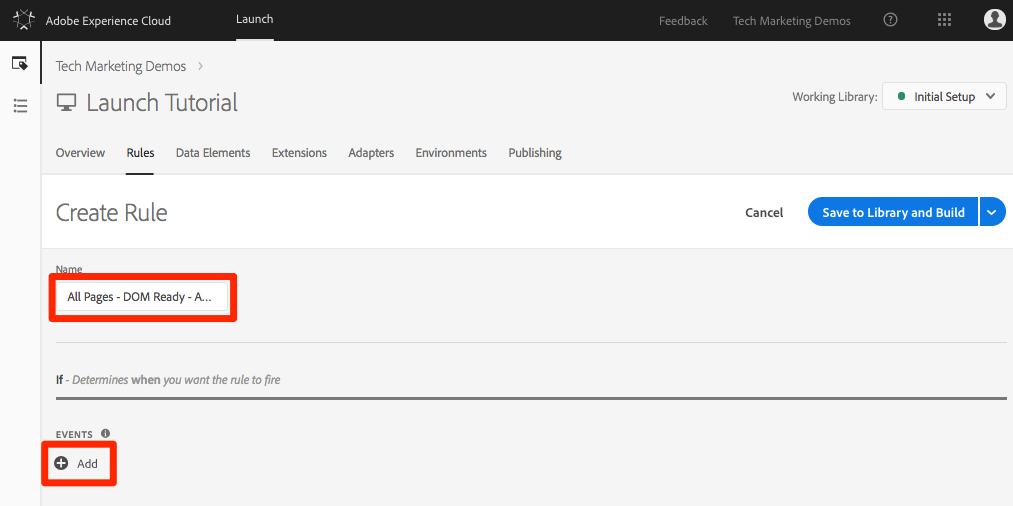
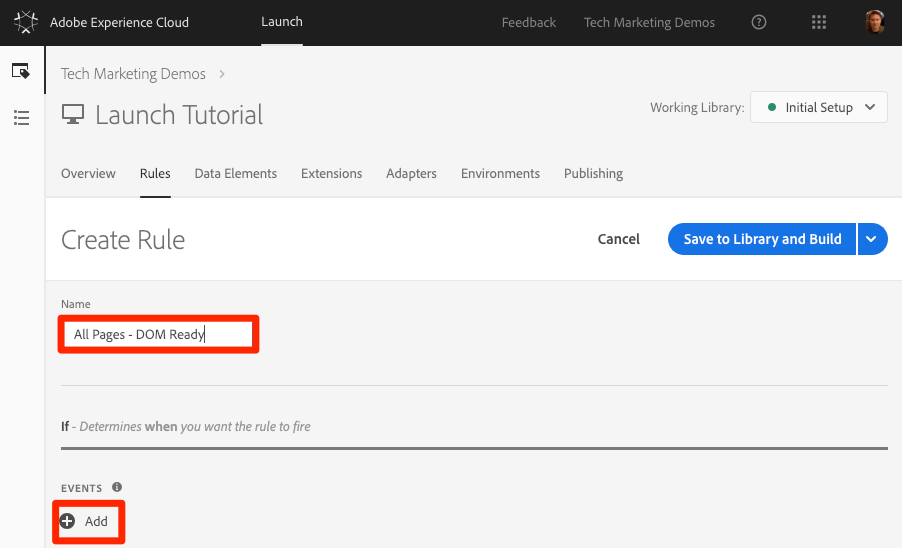
revisions, mostly to Analytics section

diff --git a/help/website-implementation/pages/analytics.md b/help/website-implementation/pages/analytics.md
@@ -8,22 +8,22 @@ solution: Experience Cloud
 
 # Adobe Analytics
 
-In this lesson, we will implement the Adobe Analytics extension, and create rules that will send data data from the page into Adobe Analytics.
+In this lesson, you will implement the Adobe Analytics extension and create rules to send data to Adobe Analytics.
 
 The Adobe Analytics extension supports client-side Analytics implementations using AppMeasurement.js.
 
-There are many things that could be implemented for Analytics in Launch, but we will limit this demo to the implementation of the following items:
+There are many things that could be implemented for Analytics in Launch, but this lesson will be limited to the implementation of the following items:
 
-1. Tracking `pageName` at a global level in the Analytics extension
+1. Setting `pageName` at a global level in the Analytics extension
 1. When Product Detail Pages are viewed, set an `eVar` and an `event`
-1. Tracking a click on navigation links, populating an `eVar`, `prop`, and `event`
-1. Implementing a plug-in to help track campaigns, and keep them from falsely duplicating `click-throughs`
+1. Tracking clicks on navigation links, populating an `eVar`, `prop`, and `event`
+1. Implementing a plug-in to help track marketing campaigns, and keep them from falsely duplicating `click-throughs`
 
 ## Prerequisites
 
 As noted in the Adobe Target section, to complete the lessons in this section, you should have already completed the lessons in [Configure Launch](launch.md) and [Add the ID Service](id-service.md). Implementing Analytics does not depend on having Target implemented, but for the purposes of this tutorial, we will assume that you did follow along and implement Target.
 
-In addition, you will need at least one report suite ID and also your tracking servers to complete this tutorial. If you don't have a test/dev report suite that you can use for this tutorial, please create one. If you are unsure how to do that, see [the documentation](https://marketing.adobe.com/resources/help/en_US/reference/new_report_suite.html). Please also have your tracking code readily available. You can retrieve this from your current implementation, or talk to your Adobe Consultant or Customer Care representative to help you decide on one.
+In addition, you will need at least one report suite ID. If you don't have a test/dev report suite that you can use for this tutorial, please create one. If you are unsure how to do that, see [the documentation](https://marketing.adobe.com/resources/help/en_US/reference/new_report_suite.html). Please also have your tracking server readily available. You can retrieve this from your current implementation, or talk to your Adobe Consultant or Customer Care representative to help you select one.
 
 ## Add the Analytics Extension
 
@@ -33,14 +33,11 @@ In addition, you will need at least one report suite ID and also your tracking s
 
    ![Install the Analytics extension](../assets/images/analytics-catalog-install.png)
 
-
 1. Under `Library Management > Report Suites`, enter the report suite ids you would like to use with each Launch environment (It's OK to use one report suite for all environments in this tutorial, but in real life you would want to use separate report suites, as shown in the image below)
 
    ![Enter the report suite ids](../assets/images/analytics-config-reportSuite.png)
 
-   >![TIP]
-   >
-   >We recommend using the `Manage the library for me option` as the `Library Management` setting as it makes it much easier to keep the core `AppMeasurement.js` code up-to-date.
+   >![TIP] We recommend using the `Manage the library for me option` as the `Library Management` setting as it makes it much easier to keep the core `AppMeasurement.js` code up-to-date.
 
 1. Under `General > Tracking Server`, enter your tracking server, e.g. "`tmd.sc.omtrdc.net`." Enter your SSL Tracking Server if your site supports `https://`
 
@@ -58,9 +55,7 @@ In addition, you will need at least one report suite ID and also your tracking s
 
    ![Configure the Link Tracking section](../assets/images/analytics-config-linkTracking.png)
 
->[!NOTE]
->
->Global variables can be set in the extension configuration or in rule actions. Be aware that when setting variables with the extension configuration, the data layer must be defined before the Launch embed codes.
+>[!NOTE] Global variables can be set in the extension configuration or in rule actions. Be aware that when setting variables with the extension configuration, the data layer must be defined before the Launch embed codes.
 
 ### What is different from DTM
 
@@ -79,16 +74,17 @@ In addition, you will need at least one report suite ID and also your tracking s
 * Custom Code: Option to load before or after the UI settings has been removed
 * Some options have been rearranged to more intuitive locations
 
-## Fire the Analytics Beacon in a Rule
+## Fire the Analytics Beacon
 
-Now you will create a rule to fire the Analytics beacon, which will also set the `Page Name` variable.
->[!NOTE] We have already created an "All Pages - Library Loaded" rule in the Target section of this tutorial, which fires on every page. We *could* use this rule for Analytics as well, but this rule fires at the top of the page, and best practice for Analytics is to fire closer to the bottom of the page, so that we can use data that has been developed on the page as it loads, etc. Therefore, we will be creating a new "all pages" rule to use for Analytics.
+Now you will create a rule to fire the Analytics beacon, which will send the `Page Name` variable set in the extension configuration.
+
+>[!NOTE] You have already created an "All Pages - Library Loaded" rule in the Target section of this tutorial, which is triggered on every page when the Launch library loads. You *could* use this rule for Analytics as well, however this requires all data layer attributes that you would like to pass to Analytics to be defined before the Launch embed codes. To allow more flexibility with the data collection, you will create a new "all pages" rule triggered on DOM Ready to fire the Analytics beacon.
 
 1. Go to the **[!UICONTROL Rules]** section in the top navigation and then and then click **[!UICONTROL Add Rule]**
 
    ![Add Rule](../assets/images/target-addRule.png)
 
-1. Name the rule `All Pages - DOM Ready - Analytics`
+1. Name the rule `All Pages - DOM Ready`
 1. Click **[!UICONTROL Events > Add]** to open the `Event Configuration` screen
 
    ![Name the rule and add the event](../assets/images/analytics-domReady-nameAddAnalyticsEvent.png)
@@ -115,23 +111,27 @@ Now you will create a rule to fire the Analytics beacon, which will also set the
 
   ![Click Save to Library and Build](../assets/images/analytics-saveToLibraryAndBuild.png)
 
-## Validate the Page Load Hit and Page Name Variable
+### Validate the Analytics Beacon
 
-Now that we have created a rule to send an Analytics beacon, we should be able to see the hit in the Experience Cloud Debugger.
+Now that we have created a rule to send an Analytics beacon, we should be able to see the request in the Experience Cloud Debugger.
 
-1. Open (or refresh) your we.retail page in a browser (you should have set a bookmark to it in an early exercise)
-1. Click the debugger icon ![Open the Experience Cloud Debugger](../assets/images/analytics-debuggerIcon.png) to open your **[!UICONTROL Adobe Experience Cloud Debugger]**
+1. Open the [We.Retail site](https://aem.enablementadobe.com/content/we-retail/us/en.html) in your Chrome browser
+1. Click the Debugger icon ![Open the Experience Cloud Debugger](../assets/images/analytics-debuggerIcon.png) to open the **[!UICONTROL Adobe Experience Cloud Debugger]**
 1. Click to the Analytics tab
-1. Expand your Report Suite's hit
-1. Notice the Page Name variable/value
+1. Expand your Report Suite name to show all of the requests made to it
+1. Confirm the Page Name variable and value
 
 ![Validate the page hit](../assets/images/analytics-validatePageHit.png)
 
 >[!NOTE] If the Page Name is not showing up for you, go back through the steps in this page to make sure that you haven't missed anything.
 
-## Setting "Product Details Page" into an `eVar` (and set an `Event`) on Product Details Pages
+## Add Variables with Rules
 
-In our deployment, we are going to focus on Product Detail Pages (PDP), also sometimes called "Product View Pages." When we load a Product Detail Page, we would like to put that value into a "Page Type" `eVar`, as well as set an event. This will allow us to see the following in our analysis:
+When you configured the Analytics Extension, you populated the `pageName` variable in the extension configuration. This is a fine location to populate other Analytics variables such as eVars and props, provided the value you are passing is available on the page before the Launch embed codes.
+
+A more flexible location to set variables&mdash;as well as events&mdash;is in rules using the `Set Variables` action. Using rules allows you to set different Analytics variables and events under different conditions. For example, you could set the `prodView` only on product detail pages and the `purchase` event only on order confirmation pages. This section will teach you how to set variables using rules.
+
+Product Detail Pages (PDP) are important points for data collection on retail sites. Typically, you want your analytics system to register that a product view occurred and which product was viewed. This is helpful in understanding which products are popular with your customers. On a media site, article or video pages could use similar tracking techniques to the ones you will use in this section.  When we load a Product Detail Page, we would like to put that value into a "Page Type" `eVar`, as well as set an event. This will allow us to see the following in our analysis:
 
 1. How many times product detail pages are loaded
 1. How other factors (campaigns, search, etc) affect how many PDP's people load.
@@ -189,21 +189,21 @@ For this functionality, we will create another page load rule, triggered by DOM 
 
 1. Click **[!UICONTROL Save to Library and Build]**
 
-## Validate the Product Detail Page Data
+### Validate the Product Detail Page Data
 
 We have just created a rule that sets some variables (before the hit goes out). We should now be able to see the new data going out in the hit in the Experience Cloud Debugger.
 
-1. Open your we.retail site in a browser and navigate to any product detail page
-1. Click the debugger icon ![Open the Experience Cloud Debugger](../assets/images/analytics-debuggerIcon.png) to open your **[!UICONTROL Adobe Experience Cloud Debugger]**
+1. Open the [We.Retail site](https://aem.enablementadobe.com/content/we-retail/us/en.html) in your Chrome browser and navigate to any product detail page
+1. Click the Debugger icon ![Open the Experience Cloud Debugger](../assets/images/analytics-debuggerIcon.png) to open your **[!UICONTROL Adobe Experience Cloud Debugger]**
 1. Click to the Analytics tab
 1. Expand your Report Suite's hit
 1. Notice the Product Detail Variables that are now in the debugger, namely that `eVar2` has been set to product detail page, and that the `Events` variable has been set to event2 (and that your Page Name is still set by the Analytics extension)
 
 ![Validate the page hit](../assets/images/analytics-validatePDPvars.png)
 
-## Add a Plug-in to Track Campaigns
+## Add a Plug-in
 
-A Plug-in is a piece of JavaScript code that we can add to our implementation to perform a specific function that is not built into the product. Plug-ins can be built by you, by other Adobe Customers/Partners, or by Adobe Consulting. Even if they are created by Adobe Consulting, they are always implemented on your site as-is, and you are responsible to do all of the testing on your site to make sure that they work correctly.
+A Plug-in is a piece of JavaScript code that you can add to your implementation to perform a specific function that is not built into the product. Plug-ins can be built by you, by other Adobe Customers/Partners, or by Adobe Consulting. Even if they are created by Adobe Consulting, they are always implemented on your site as-is, and you are responsible to do all of the testing on your site to make sure that they work correctly.
 
 To implement plug-ins, there are basically three steps:
 
@@ -211,15 +211,15 @@ To implement plug-ins, there are basically three steps:
 1. Add the main function code for the plug-in
 1. Include the code that calls the function and sets variables, etc.
 
-### Make the Code Globally Accessible
+### Make the Analytics "s" Object Globally Accessible
 
-If you are going to add the doPlugins function (below) and use plug-ins, you need to check a box to make the code available globally in the Analytics implementation.
+If you are going to add the doPlugins function (below) and use plug-ins, you need to check a box to make the Analytics "s" object available globally in the Analytics implementation.
 
 1. Go to **[!UICONTROL Extensions > Installed]**
 
 1. In the Adobe Analytics extension, Click **[!UICONTROL Configure]**
 
-![Configure Analytics](../assets/images/analytics-configureExtension.png)
+      ![Configure Analytics](../assets/images/analytics-configureExtension.png)
 
 1. Under **[!UICONTROL Library Management]**, select the box labeled `Make tracker globally accessible`. As you can see in the help bubble, this will make the tracker be scoped globally under window.s, which will be important as we refer to it in our customer JavaScript.
 
@@ -248,14 +248,13 @@ We are actually going to call two plug-ins in this code, but one of them is buil
 
 ### The getValOnce() Plug-in
 
-The purpose of this plug-in is to keep values from getting falsely duplicated in the code when a visitor refreshes a page or uses the browser's back button to go back to a page where a value was set. In this tutorial, we will use it to keep the `clickthrough` event from being duplicated.
+The purpose of this plug-in is to keep values from getting falsely duplicated in the code when a visitor refreshes a page or uses the browser's back button to go back to a page where a value was set. In this lesson, you will use it to keep the `clickthrough` event from being duplicated.
 
-This code for this plug-in is available in the [Analytics Documentation](https://marketing.adobe.com/resources/help/en_US/sc/implement/getValOnce.html), but we will include it here for your ease of copy/paste.
+The code for this plug-in is available in the [Analytics Documentation](https://marketing.adobe.com/resources/help/en_US/sc/implement/getValOnce.html), but we will include it here for your ease of copy/paste.
 
 1. Copy the following code
 
    ```javascript
-
    /*
    * Plugin: getValOnce_v1.11
    */
@@ -263,10 +262,9 @@ This code for this plug-in is available in the [Analytics Documentation](https:/
    +"var s=this,a=new Date,v=v?v:'',c=c?c:'s_gvo',e=e?e:0,i=t=='m'?6000"
    +"0:86400000,k=s.c_r(c);if(v){a.setTime(a.getTime()+e*i);s.c_w(c,v,e"
    +"==0?0:a);}return v==k?'':v");
-
    ```
 
-1. Paste it into the code window in the Analytics extension (that you hopefully still have open - else re-open from the previous step), **completely below** the doPlugins function (not inside of it).
+1. Paste it into the code window in the Analytics extension (if you don't still have it open, re-open it as per the previous step), **completely below** the doPlugins function (not inside of it).
 
 ![Add Plug-in Code](../assets/images/analytics-doPluginsAndGeValOnceCode.png)
 
@@ -275,9 +273,10 @@ You can now call this plug-in from within doPlugins.
 ### Calling Plug-ins from Within doPlugins
 
 Now that the code is there and can be referenced, we can make the calls to plug-ins within the doPlugins function.
-First we will call a plug-in which has been incorporated into the AppMeasurement library, and so is known as a "utility." It is referred to as `s.Util.getQueryParam`, because it is part of the s object, is a built-in utility, and will grab values (based on a parameter) from the query string in the URL.
 
-1. copy the following code:
+First you will call a plug-in which has been incorporated into the AppMeasurement library, and so is known as a "utility." It is referred to as `s.Util.getQueryParam`, because it is part of the s object, is a built-in utility, and will grab values (based on a parameter) from the query string in the URL.
+
+1. Copy the following code:
 
    `s.campaign = s.Util.getQueryParam("cid");`
 
@@ -287,46 +286,46 @@ First we will call a plug-in which has been incorporated into the AppMeasurement
    `s.campaign=s.getValOnce(s.campaign,'s_cmp',30);`
 This code will make sure that the same value is not sent in more than once in a row for 30 days (see the documentation for ways to customize this code to your needs).
 
-![Call Plug-ins in doPlugins](../assets/images/analytics-doPluginsWithPlugins.png)
+      ![Call Plug-ins in doPlugins](../assets/images/analytics-doPluginsWithPlugins.png)
 
 1. Save the code window
 1. Click **[!UICONTROL Save to Library and Build]**
 
-## Validate the Plug-ins
+### Validate the Plug-ins
 
 Now let's make sure that the plug-ins are working the way that we expect.
 
-1. Open your browser to we.retail
-1. Click the debugger icon ![Open the Experience Cloud Debugger](../assets/images/analytics-debuggerIcon.png) to open your **[!UICONTROL Adobe Experience Cloud Debugger]**
+1. Open the [We.Retail site](https://aem.enablementadobe.com/content/we-retail/us/en.html) in your Chrome browser
+1. Click the Debugger icon ![Open the Experience Cloud Debugger](../assets/images/analytics-debuggerIcon.png) to open the **[!UICONTROL Adobe Experience Cloud Debugger]**
 1. Click to the Analytics tab
-1. Expand your Report Suite's hit
+1. Expand your Report Suite
 1. Notice the Analytics hit does not have a Campaign variable
-1. Leaving your debugger open, go back to the site and add  `?cid=1234` to the URL and hit Enter to refresh the page with that query string included
+1. Leaving the Debugger open, go back to the We.Retail site and add  `?cid=1234` to the URL and hit Enter to refresh the page with that query string included
 
    ![Add a Query String](../assets/images/analytics-cidAdded.png)
 
-1. Check the debugger and now see that there is a Campaign variable with the value 1234 in this second hit
+1. Check the Debugger and confirm that there is a second Analytics request with a Campaign variable set to `1234`
 
-![getQueryParam step 1](../assets/images/analytics-getQueryParam1.png)
+      ![getQueryParam step 1](../assets/images/analytics-getQueryParam1.png)
 
-1. Go back and refresh the page, with the query string still in the URL
-1. Check the next hit in the debugger, and the Campaign variable value will be gone, because the getValOnce plug-in has made sure that it doesn't get duplicated and look like another person came in from the campaign tracking code.
+1. Go back and refresh the We.Retail page again, with the query string still in the URL
+1. Check the next hit in the Debugger, and the Campaign variable should not be present, because the getValOnce plug-in has made sure that it doesn't get duplicated and look like another person came in from the campaign tracking code.
 
    ![getQueryParam step 1](../assets/images/analytics-getQueryParam2.png)
 
    >[!NOTE] There are actually a few different ways to grab a parameter out of the query string of the URL, including in the Analytics extension configuration. However, in these other non-plug-in options, they don't provide the ability to stop unnecessary duplication, as we have done here with the getValOnce plug-in. This is the author's favorite method, but you should determine which method works best for you and your needs.
 
-## Sending an `s.tl()` into Analytics
+## Fire a Track Link (`s.tl()`) Beacon
 
-When a page loads, we typically have Launch trigger an `s.t()` call, which is referred to as a page load call. This sets the variables you send in, and automatically records a `page view` metric for the page listed in the `pageName` variable.
+When a page loads, we typically fire a page load beacon triggered by the `s.t()` function. This automatically increments a `page view` metric for the page listed in the `pageName` variable.
 
-However, sometimes you don't want to increase page views on your site, because the action that is taking place is "smaller" (or maybe just different) than a page view. In this case, we will use the `s.tl` function, which is commonly referred to as a custom link call (or "hit"). Even though it is referred to as a custom link call, it doesn't have to be triggered on a link click. It can be triggered by *any* of the events that are available to you in the Launch rules.
+However, sometimes you don't want to increment page views on your site, because the action that is taking place is "smaller" (or maybe just different) than a page view. In this case, we will use the `s.tl()` function, which is commonly referred to as a "track link" request or "hit". Even though it is referred to as a track link call, it doesn't have to be triggered on a link click. It can be triggered by *any* of the events that are available to you via in the Launch rule builder, including your own custom JavaScript.
 
 In this tutorial, we will trigger an `s.tl()` call using one of the coolest JavaScript events, an `Enters Viewport` event.
 
 ### The Use Case
 
-For this use case, we want to know if people are scrolling down on our we.retail home page far enough to see the *New Arrivals* section on our page. There is some internal discord at our company about whether people are even seeing that section or not, so we want to use Analytics to determine the truth.
+For this use case, we want to know if people are scrolling down on our We.Retail home page far enough to see the *New Arrivals* section of our page. There is some internal discord at our company about whether people are even seeing that section or not, so we want to use Analytics to determine the truth.
 
 ### Create the Rule in Launch
 
@@ -359,11 +358,11 @@ For this use case, we want to know if people are scrolling down on our we.retail
 1. Set the `Events` variable to `event3`
 1. Click **[!UICONTROL Keep Changes]**
 
-![Configure the Enters Viewport Event](../assets/images/analytics-configViewportAction.png)
+      ![Configure the Enters Viewport Event](../assets/images/analytics-configViewportAction.png)
 
 1. Under Actions, click the ![Click the Plus icon](../assets/images/icon-plus.png) to add another new action
 
-![Add Send Beacon Action](../assets/images/analytics-newArrivalsSendBeacon1.png)
+      ![Add Send Beacon Action](../assets/images/analytics-newArrivalsSendBeacon1.png)
 
 1. Select **[!UICONTROL Extension > Adobe Analytics]**
 1. Select **[!UICONTROL Action Type > Send Beacon]**
@@ -375,17 +374,17 @@ For this use case, we want to know if people are scrolling down on our we.retail
 
 1. Click **[!UICONTROL Save to Library and Build]**
 
-## Validate the Enters Viewport s.tl()
+### Validate the Enters Viewport s.tl()
 
 Now we will want to make sure that this hit goes in when we scroll down to the New Arrivals section of the Home Page of our site. When we first bring up our site, the values shouldn't be there, but as we scroll down and the section comes into view, the hit should fire with our new values.
 
-1. Open the we.retail site in the browser and make sure you are at the top of the home page.
+1. Open the [We.Retail site](https://aem.enablementadobe.com/content/we-retail/us/en.html) in your Chrome browser and make sure you are at the top of the home page.
 1. Click the **[!UICONTROL debugger icon]** ![Open the Experience Cloud Debugger](../assets/images/analytics-debuggerIcon.png) to open your [!UICONTROL Adobe Experience Cloud Debugger]
 1. Click to the Analytics tab
 1. Expand your Report Suite's hit
 1. Notice the normal page view hit for the home page with the page name, etc. (but nothing in eVar3 or prop3).
 
-![Debugger with a Page View](../assets/images/analytics-debuggerPageView.png)
+      ![Debugger with a Page View](../assets/images/analytics-debuggerPageView.png)
 
 1. Leaving the debugger open, scroll down on your site until you can see the New Arrivals section
 1. View the debugger again, and another Analytics hit should have appeared. This hit should have the params associated with the s.tl() hit that we set up, namely:

diff --git a/help/website-implementation/pages/index.md b/help/website-implementation/pages/index.md
@@ -52,7 +52,7 @@ In these lessons, you will implement the Adobe Experience Cloud into a fake reta
 1. Add the [Adobe Experience Cloud Debugger](https://chrome.google.com/webstore/detail/adobe-experience-cloud-de/ocdmogmohccmeicdhlhhgepeaijenapj) extension to your Chrome browser
 1. Download the [sample html page](https://www.enablementadobe.com/multi/web/basic-sample.html) (right-click on this link and click "Save Link As")
 1. Get a text editor in which you can make changes to the sample html page. (If you don't have one, we recommend trying [Brackets](http://brackets.io/))
-1. Bookmark [the We.Retail site](https://aem.enablementadobe.com/content/we-retail/us/en.html)
+1. Bookmark the [We.Retail site](https://aem.enablementadobe.com/content/we-retail/us/en.html)
 
 Let's get started!
 

diff --git a/help/website-implementation/pages/audience-manager.md b/help/website-implementation/pages/audience-manager.md
@@ -22,7 +22,7 @@ You should know your “Audience Manager Subdomain” (also known as the “Part
 
 This tutorial provides basic information on how to set up a Server-Side forwarding implementation. For a complete description and requirements list for Server-Side forwarding, please review the [documentation](https://marketing.adobe.com/resources/help/en_US/reference/ssf.html) as well, so that you are familiar with how it works, what is required, and how to validate.
 
-### Enabling Server-Side Forwarding in the Analytics Admin Console
+### Enable Server-Side Forwarding in the Analytics Admin Console
 
 Launch will contain the code associated with SSF and the response from AAM back to the page, *but SSF also needs to be enabled in the Adobe Analytics Admin Console*.
 

diff --git a/help/website-implementation/pages/target.md b/help/website-implementation/pages/target.md
@@ -75,7 +75,7 @@ For more details and to obtain the un-minified pre-hiding snippet, please see [t
 
 >[!NOTE] Each version of the Target extension comes with a specific version of at.js. You update the at.js version by updating the Target extension.
 
-## Load Target and Add the Global Mbox
+## Load Target and Fire the Global Mbox
 
 Marketers use Target to control the visitor experience on the page when testing and targeting content. Because of this important role the final display of the page, Target should be loaded as early as possible to minimize the impact on page visibility. In this section, we will load the Target JavaScript SDK library&mdash;at.js&mdash;as well as fire the global mbox.
 
